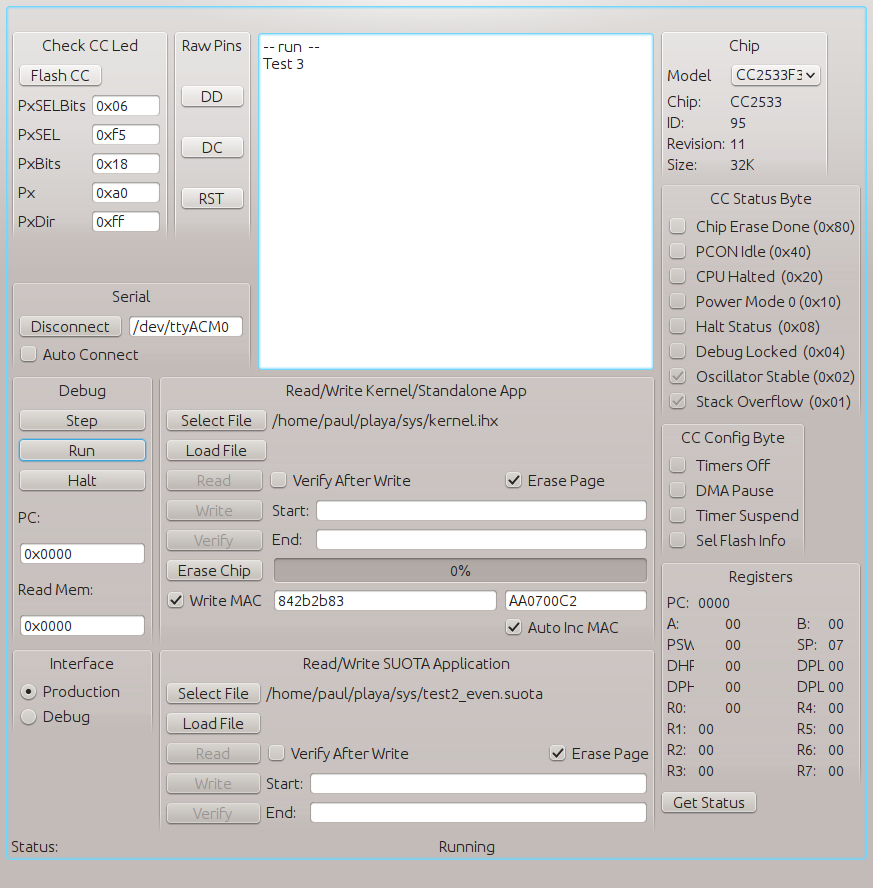
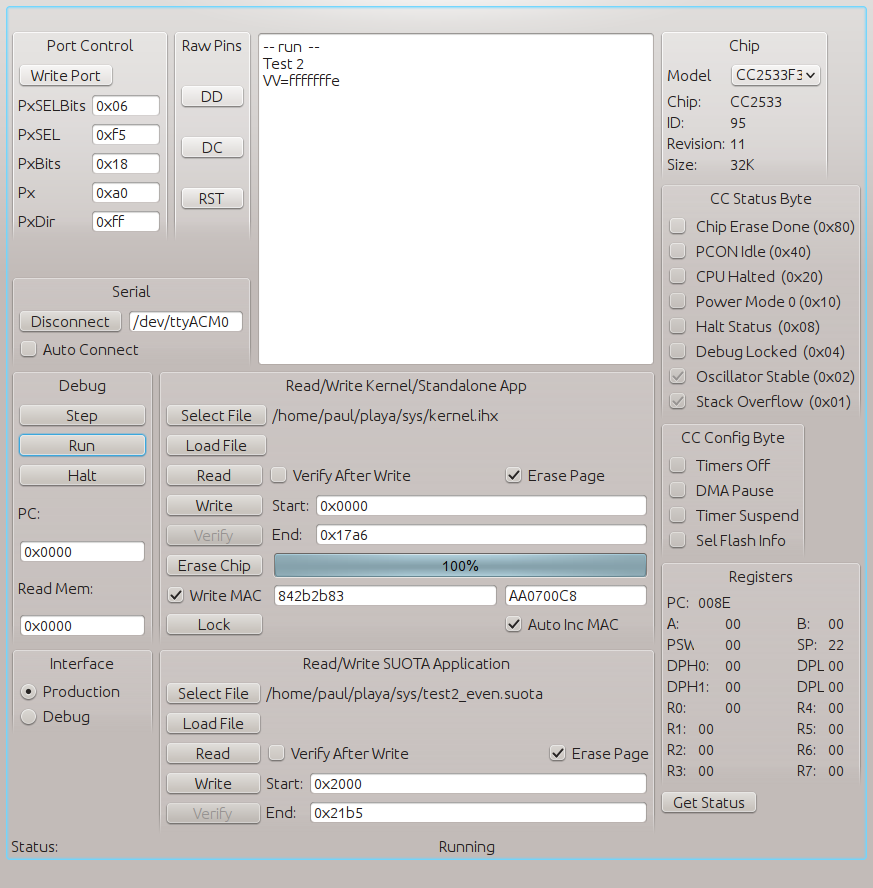
minor doumentation changes

diff --git a/docs/programming.html b/docs/programming.html
@@ -638,6 +638,7 @@ into the correct place. But the world isn't perfect, sometimes a node may miss a
 	</ul>
 <li>Read - this doesn't work well yet, and is disabled
 <li>Erase Chip - erases the entire chip, unlocks it if it was locked (use this before you load a new kernel if you also want any incompatible SUOTA applications, compiled to work with older kernel versions, removed).
+<li>Lock - (not yet working) clears the last bit if flash memory to lock the chip (use Erase Chip to gain access again)
 <li>Write Mac - (only applies to Kernels or Standalone Apps) - if checked a MAC will be inserted low in memory - there are two text boxes here - put an 8 hex digit (32-bit) value in each to represent a MAC address, if "Auto Inc MAC: is checked the right hand value will be incremented on every write
 </ul>
 
@@ -661,7 +662,7 @@ into the correct place. But the world isn't perfect, sometimes a node may miss a
 
 <p>Sections seldom used:</p>
 <ul>
-<li>Flash CC - used for setting chip options, in particular locking it down
+<li>Port Control - used for setting external ports
 <li>Raw Pins - poke the raw debug interface pins
 <li>Interface/production - used for some older programmers
 </ul>
